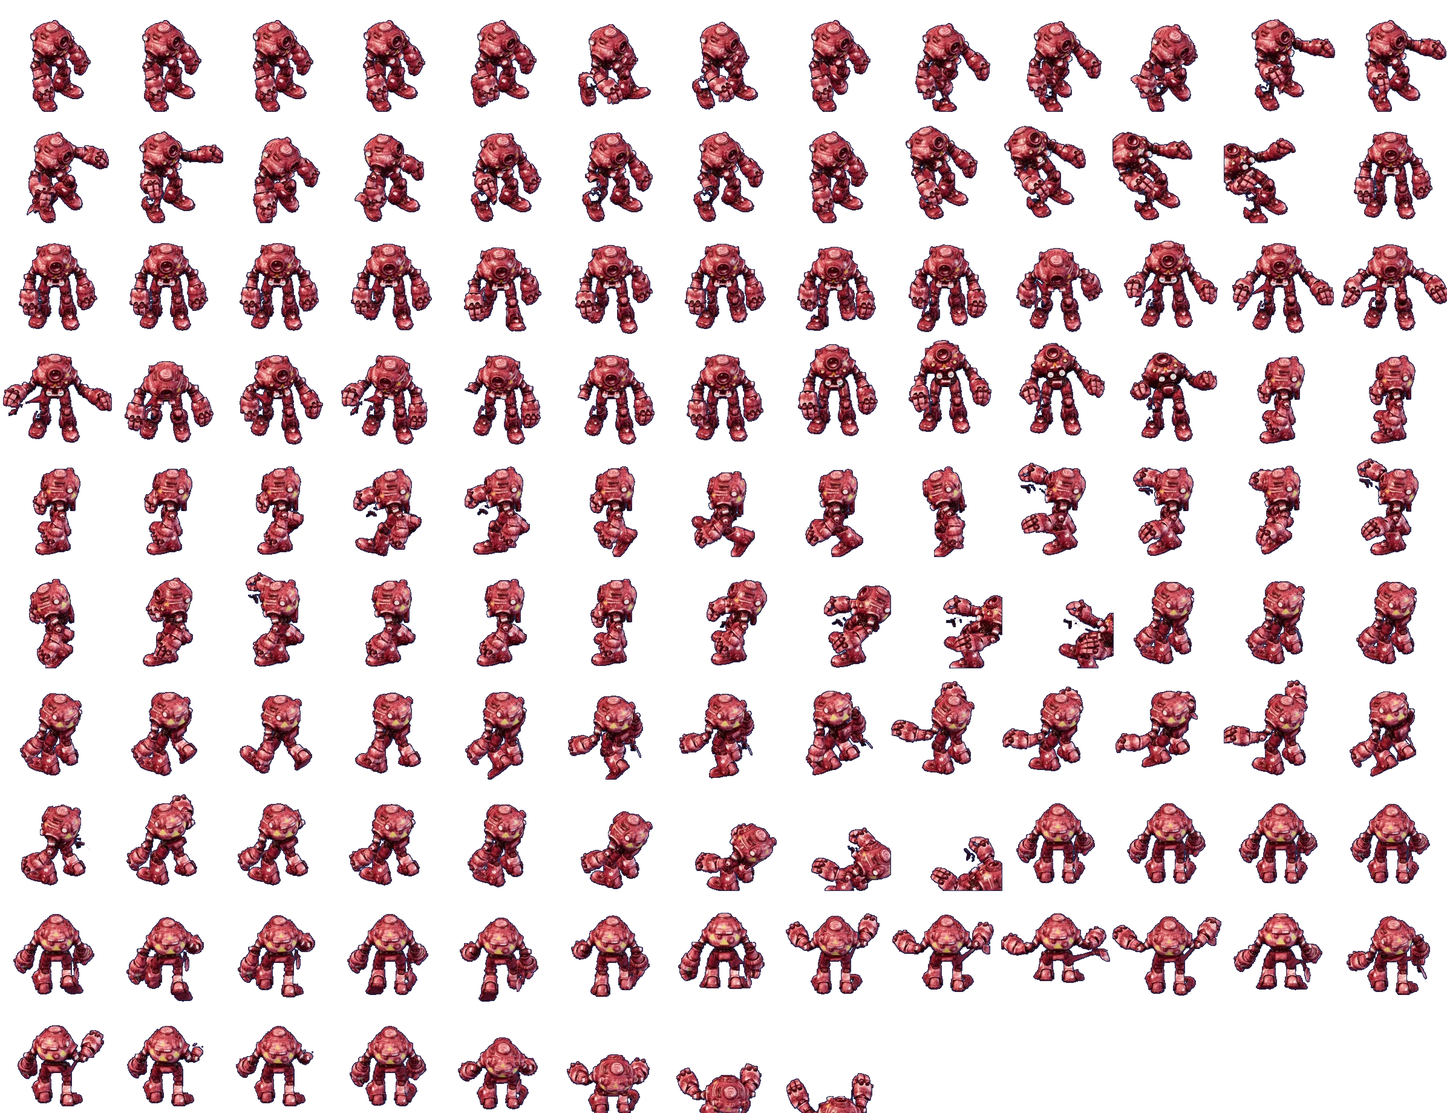
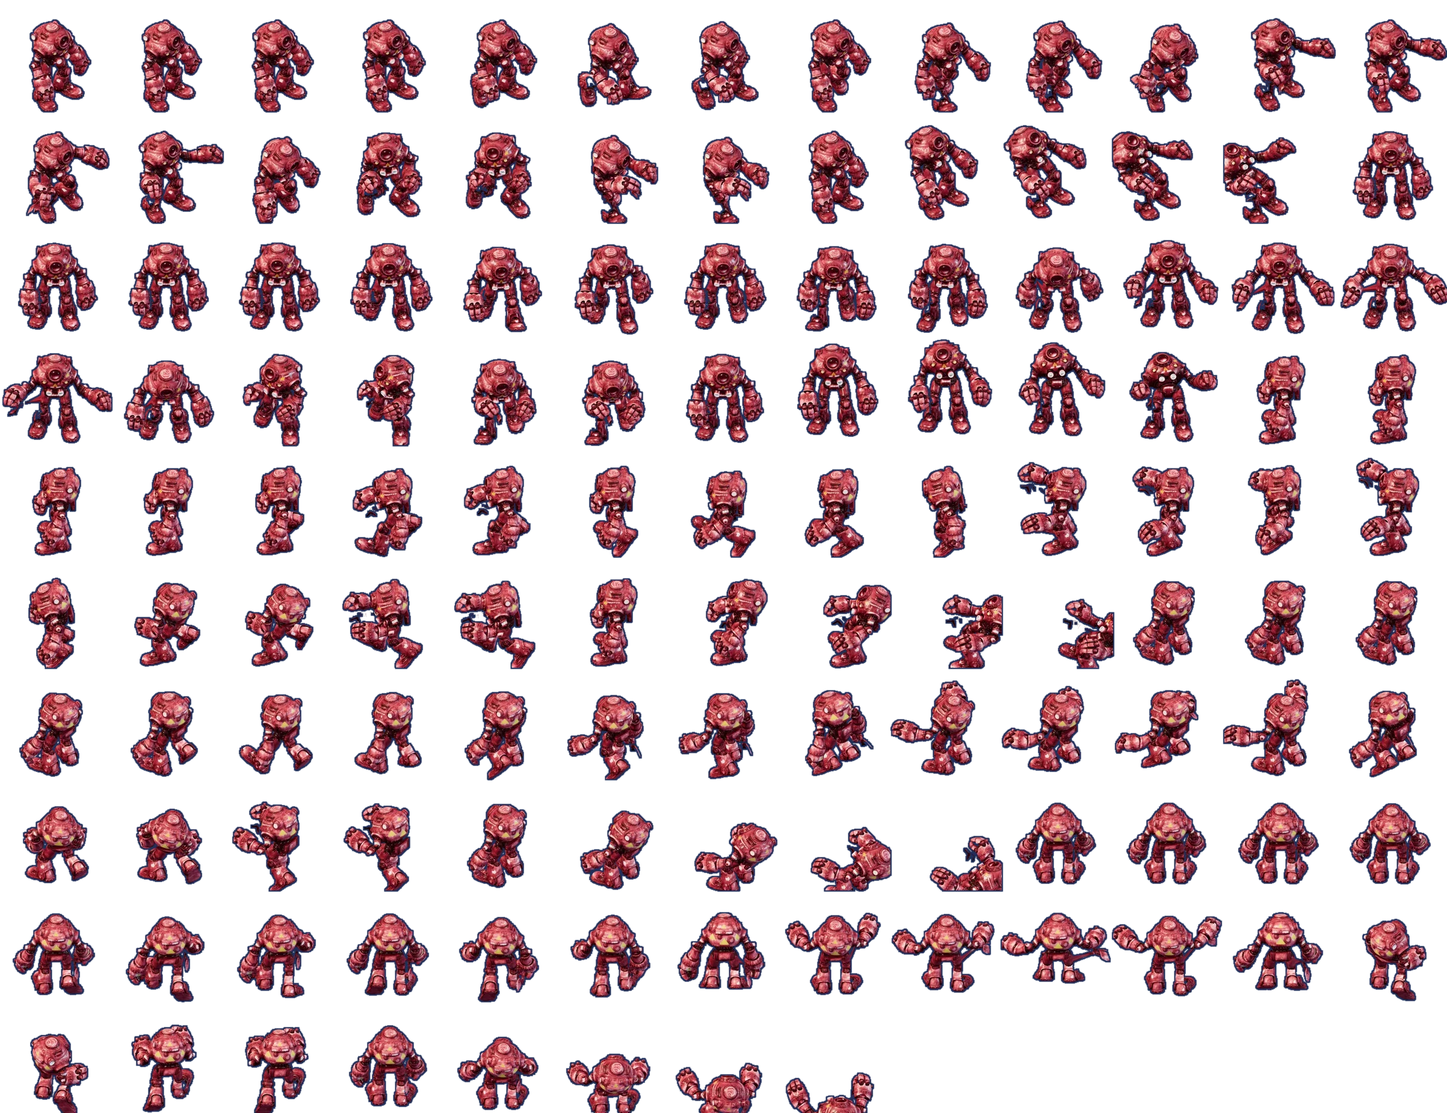
Guard energy-wave pose + big cartoon squash & stretch; ranger = owner's android with rifle (patch 194)
- Guard re-rendered from the owner's model: charge a ball at the hip, then lunge and
  push both palms; beam starts at the palms. Exaggerated squash/stretch on hop,
  landing, charge and push.
- Ranger (kind 0) uses the rigged android (green tint) with a modelled rifle,
  IK hands, idle/walk/aim+recoil/death in 8 directions; new card portrait.

Claude-Session: https://claude.ai/code/session_01ENEEn6VUZQ2HPHGFADhf8c

diff --git a/features/hud400/hud400.js b/features/hud400/hud400.js
@@ -52,17 +52,19 @@
 // (or a building's footprint), so gameplay, hit boxes and saves are untouched.
 var squash401={units:new WeakMap(),buildings:{},now:0};
 function spring401(e,amp,freq,damp){return amp*Math.exp(-e*damp)*Math.cos(e*freq);}
-// Flying guard robot: crouch before lift-off, stretch while climbing/diving, squash on touch-down, breathe while hovering.
+// 402: guard robot, exaggerated cartoon (Disney-style) squash & stretch: deep crouch before each hop, long stretch on
+// launch, stretch along the fall, a big pancake squash on landing that wobbles back, and a springy idle bounce.
 function squashGuard401(r,h,t){
- var now=performance.now()/1000,s=r.sq401||(r.sq401={h:h,at:now,vz:0,land:-9,crouch:-9});
- var dt=Math.max(.001,now-s.at),vz=(h-s.h)/dt;if(dt<.2)s.vz=s.vz*.6+vz*.4;
- if(s.h<=0&&h>0)s.crouch=now;if(s.h>0&&h<=0)s.land=now;s.h=h;s.at=now;
- var sy=1,e;
- if((e=now-s.crouch)<.45)sy+=e<.12?-.22*(e/.12):spring401(e-.12,.24,16,7);
- else if((e=now-s.land)<.6)sy+=spring401(e,-.3,20,7);
- else if(h>2)sy+=Math.max(-.12,Math.min(.2,Math.abs(s.vz)/260))+Math.sin(t*3.1)*.035;
- else sy+=Math.sin(t*2.2)*.02;
- ctx.scale(1/Math.sqrt(sy),sy);
+ var now=performance.now()/1000,s=r.sq401||(r.sq401={h:h,at:now,vz:0,land:-9,crouch:-9,impact:0});
+ var dt=Math.max(.001,now-s.at),vz=(h-s.h)/dt;if(dt<.2)s.vz=s.vz*.55+vz*.45;
+ if(s.h<=0&&h>0)s.crouch=now;if(s.h>0&&h<=0){s.land=now;s.impact=Math.min(1,Math.abs(s.vz)/200+.45);}s.h=h;s.at=now;
+ var ph=r.hop401!==undefined?r.hop401%1:-1,sy=1,e;
+ if(h<=0&&ph>=.12&&ph<.25&&!(r.charge402>0))sy-=.42*Math.sin((ph-.12)/.13*Math.PI/2);// anticipation: squat low
+ else if((e=now-s.crouch)<.5)sy+=e<.08?.55*(e/.08):spring401(e-.08,.55,15,6);// launch: shoot up long and thin
+ else if((e=now-s.land)<.75)sy+=spring401(e,-.5*s.impact,18,5.5);// landing: pancake, then wobble
+ else if(h>2)sy+=Math.max(-.18,Math.min(.38,s.vz/160))+Math.sin(t*5)*.03;// stretch rising and falling, round at the apex
+ else sy+=Math.abs(Math.sin(t*3.2))*.07-.02;// springy idle bounce
+ sy=Math.max(.42,sy);ctx.scale(1/Math.pow(sy,.6),sy);
 }
 (function(){
  // Troops: bouncy walk, hit squash, shot kick, squash-flat on defeat, floating air units.
@@ -114,7 +116,7 @@ function squashGuard401(r,h,t){
 // 401: base guard robot = the owner's 3D model, auto-rigged and pre-rendered (features/render3d/guard3d.html).
 // 5 rendered directions + 3 mirrored; idle / walk / jump (cartoon hop: crouch, launch, tuck, reach, squash) / attack (eye blast) / death.
 // Colour by the base's HQ level: 1-3 sky blue, 4-6 gold, 7+ ruby.
-var guardMeta401={"cw":184,"ch":184,"cols":13,"dirs":[0,1,3,4,5],"anims":{"idle":[0,4],"walk":[4,6],"jump":[10,6],"attack":[16,4],"death":[20,5]},"muzzle":[[23,-72.9],[2.9,-66.4],[-29.6,-82.6],[-23,-95.7],[-2.9,-102.2]],"ax":92,"ay":157.9,"h":123.9},guardImgs401={},guardRow401={0:[0,1],1:[1,1],2:[0,-1],3:[2,1],4:[3,1],5:[4,1],6:[3,-1],7:[2,-1]},GUARD_H401=64;
+var guardMeta401={"cw":184,"ch":184,"cols":13,"dirs":[0,1,3,4,5],"anims":{"idle":[0,4],"walk":[4,6],"jump":[10,6],"attack":[16,4],"death":[20,5]},"muzzle":[[1.6,-33.3],[-14.6,-36.6],[-16.8,-55.5],[-1.6,-60.1],[14.6,-56.9]],"ax":92,"ay":157.9,"push":[[45.5,-32.5],[6.7,-19.5],[-57.6,-50.2],[-45.5,-76],[-6.7,-89]],"h":123.9},guardImgs401={},guardRow401={0:[0,1],1:[1,1],2:[0,-1],3:[2,1],4:[3,1],5:[4,1],6:[3,-1],7:[2,-1]},GUARD_H401=64;
 function guardTier401(){var bs=screen==='raid'&&E.raid?E.raid.buildings:screen==='defense'&&E.defense?E.defense.buildings:E.d.buildings,hq=(bs||[]).find(function(b){return b.type==='hq';}),lv=hq&&hq.lv||1;return lv>=7?'t3':lv>=4?'t2':'t1';}
 function guardImg401(tier){var im=guardImgs401[tier];if(!im){im=guardImgs401[tier]=new Image();im.onload=function(){drawNeeded=true;};im.src='assets/guard401-'+tier+'.webp';}return im.complete&&im.naturalWidth?im:null;}
 function guardDir401(r){var dx=0,dy=0;if(r.lx401!==undefined){dx=r.x-r.lx401;dy=r.y-r.ly401;}r.lx401=r.x;r.ly401=r.y;
@@ -130,8 +132,8 @@ drawMiner251=function(r){
   if(ph>=0&&(h>0.5||(ph>=0.12&&ph<0.25&&Date.now()-(r.hopAt401||0)<300))){anim='jump';var q=(ph-0.25)/0.75;f=ph<0.12?5:ph<0.25?0:q<0.12?1:q<0.42?2:q<0.62?3:q<0.9?4:5;}
   else if(h>0.5){var sq=r.sq401;anim='jump';f=sq&&sq.vz<-5?4:sq&&sq.vz>5?2:3;}
   else if(ph>=0&&ph<0.12&&Date.now()-(r.hopAt401||0)<300){anim='jump';f=5;}
-  else if(r.charge402>0){anim='attack';f=Math.min(3,Math.floor((1-r.charge402/.8)*4));}
-  else if(r.fired402&&Date.now()-r.fired402<520){anim='attack';f=3;}
+  else if(r.charge402>0){anim='attack';var cp402=1-r.charge402/.8;f=cp402<.4?0:(cp402>.75&&Math.floor(now/60)%2?0:1);}
+  else if(r.fired402&&Date.now()-r.fired402<560){anim='attack';f=Date.now()-r.fired402<90?2:3;}
   else if(now-(r.moveAt401||0)<150){anim='walk';f=Math.floor((r.odo401||0)*7)%6;}
   else{anim='idle';f=Math.floor(t*4)%4;}}
  var cell=rm[0]*25+g.anims[anim][0]+f,k=GUARD_H401/g.h;
@@ -153,13 +155,13 @@ weaponMount=function(o){
 // 402: energy wave attack. The guard crouches and pulls back while a glowing ball gathers in front of its chest
 // (sparks spiral in), then lunges forward and pushes a wide beam out as far as the shock mortar fires.
 var WAVE402={t1:['#e9fbff','#6fe0ff','#2aa8ff'],t2:['#fffbe6','#ffe27a','#ffaa1f'],t3:['#fff0f2','#ff9aa8','#ff3b5c']};
-function hand402(o){// screen offset (unzoomed) of the energy ball: chest height, pushed toward the target.
- var a=o.aim!==undefined?o.aim:Math.PI/4,p0=point(o.x,o.y),p1=point(o.x+Math.cos(a),o.y+Math.sin(a)),dx=(p1.x-p0.x)/zoom,dy=(p1.y-p0.y)/zoom,l=Math.hypot(dx,dy)||1;
- return {x:dx/l*20,y:dy/l*9-GUARD_H401*.5-(o.height340||0),dx:dx/l,dy:dy/l};}
+function hand402(o,which){// screen offset (unzoomed) of the hands: 'muzzle' while charging (at the hip), 'push' at the end of the thrust.
+ var a=o.aim!==undefined?o.aim:Math.PI/4,d=((Math.round(a/(Math.PI/4))%8)+8)%8,rm=guardRow401[d],m=guardMeta401[which||'muzzle'][rm[0]],k=GUARD_H401/guardMeta401.h;
+ return {x:m[0]*k*rm[1],y:m[1]*k-(o.height340||0)};}
 function pose402(r){var now=Date.now(),e;
- if(r.charge402>0){e=1-r.charge402/.8;var c=Math.min(1,e*1.6);ctx.scale(1+.1*c,1-.12*c+Math.sin(e*60)*.012*e);return;}// crouch and tremble while charging
- if(r.fired402&&(e=(now-r.fired402)/1000)<.6){var k=Math.exp(-e*7);ctx.scale(1-.1*k,1+.16*k*Math.cos(e*22));}}// lunge into the push
-function orb402(r){var c=WAVE402[guardTier401()],e=1-r.charge402/.8,m=hand402(r),p=point(r.x,r.y),x=p.x+m.x*zoom,y=p.y+m.y*zoom,rad=(4+e*11+Math.sin(Date.now()/40)*1.2)*zoom;
+ if(r.charge402>0){e=1-r.charge402/.8;var c=Math.min(1,e*1.5),q=1-.24*c+Math.sin(now/22)*.035*c;ctx.scale(1/Math.pow(q,.7),q);return;}// coil down and tremble while charging
+ if(r.fired402&&(e=(now-r.fired402)/1000)<.8){var q2=1+spring401(e,.34,16,5);ctx.scale(1/Math.pow(q2,.7),q2);}}// spring up into the push, wobble back
+function orb402(r){var c=WAVE402[guardTier401()],e=1-r.charge402/.8,m=hand402(r,'muzzle'),p=point(r.x,r.y),x=p.x+m.x*zoom,y=p.y+m.y*zoom,rad=(4+e*11+Math.sin(Date.now()/40)*1.2)*zoom;
  ctx.save();
  var g=ctx.createRadialGradient(x,y,0,x,y,rad*2.6);g.addColorStop(0,c[0]);g.addColorStop(.3,c[1]);g.addColorStop(1,'rgba(0,0,0,0)');ctx.fillStyle=g;ctx.beginPath();ctx.arc(x,y,rad*2.6,0,Math.PI*2);ctx.fill();
  ctx.fillStyle=c[0];ctx.beginPath();ctx.arc(x,y,rad*.55,0,Math.PI*2);ctx.fill();
@@ -167,7 +169,7 @@ function orb402(r){var c=WAVE402[guardTier401()],e=1-r.charge402/.8,m=hand402(r)
  ctx.restore();drawNeeded=true;}
 var fx402=drawFX;drawFX=function(f){
  if(!f||f.effect!=='wave402')return fx402.apply(this,arguments);
- var c=WAVE402[guardTier401()],v=Math.max(0,Math.min(1,1-f.life/(f.maxLife||.62))),reach=f.reach402||.4,src={x:f.x,y:f.y,aim:Math.atan2(f.ty-f.y,f.tx-f.x),height340:0},m=hand402(src),a=point(f.x,f.y),b=point(f.tx,f.ty);
+ var c=WAVE402[guardTier401()],v=Math.max(0,Math.min(1,1-f.life/(f.maxLife||.62))),reach=f.reach402||.4,src={x:f.x,y:f.y,aim:Math.atan2(f.ty-f.y,f.tx-f.x),height340:0},m=hand402(src,'push'),a=point(f.x,f.y),b=point(f.tx,f.ty);
  a.x+=m.x*zoom;a.y+=m.y*zoom;b.y-=12*zoom;
  var head=Math.min(1,v/reach),hx=a.x+(b.x-a.x)*head,hy=a.y+(b.y-a.y)*head,fade=v<reach?1:Math.max(0,1-(v-reach)/(1-reach)),w=(14+Math.sin(v*70)*2)*zoom*(.35+.65*fade);
  ctx.save();ctx.lineCap='round';

diff --git a/features/render3d/ranger402/android3d.html b/features/render3d/ranger402/android3d.html
@@ -1,0 +1,83 @@
+<!doctype html><html><body style="margin:0;background:transparent">
+<canvas id="c" width="240" height="256"></canvas>
+<script type="importmap">{"imports":{"three":"/three/build/three.module.js","three/addons/":"/three/examples/jsm/"}}</script>
+<script type="module">
+// 402: ranger (basic soldier) = the owner's android (rigged ATLAS-09 skeleton, staging/titan/forge/models/android-nova.glb)
+// carrying a modelled assault rifle. Same camera/lights/facing as units3d.html: unit faces local +x, yaw = -gridAngle.
+// Arms are placed on the rifle with two-bone IK after the clip pose (Sentinel idle, Walk, aim+recoil, Collapse).
+import * as T from 'three';import {GLTFLoader} from 'three/addons/loaders/GLTFLoader.js';
+const canvas=document.getElementById('c');
+const R=new T.WebGLRenderer({canvas,antialias:true,alpha:true,preserveDrawingBuffer:true});
+R.setClearColor(0,0);R.outputColorSpace=T.SRGBColorSpace;R.toneMapping=T.ACESFilmicToneMapping;R.toneMappingExposure=1.15;
+const S=new T.Scene();
+const cam=new T.OrthographicCamera(-1.6,1.6,2.35,-1.05,0.1,100);
+S.add(new T.HemisphereLight(0xfff6e8,0x5571a3,2.2));
+const sun=new T.DirectionalLight(0xfff0d6,3.4);sun.position.set(-3,10,7);S.add(sun);
+const rim=new T.DirectionalLight(0x9fe3ff,1.8);rim.position.set(7,3,-5);S.add(rim);
+const params=new URLSearchParams(location.search);
+const gltf=await new GLTFLoader().loadAsync(params.get('model'));
+const model=gltf.scene;const box=new T.Box3().setFromObject(model),size=box.getSize(new T.Vector3());
+const H=1.85,sc=H/size.y;model.scale.setScalar(sc);
+const wrap=new T.Group();wrap.rotation.y=Math.PI/2;S.add(wrap);wrap.add(model);
+const bones={};model.traverse(o=>{if(o.isBone)bones[o.name.replace(/[^a-zA-Z.]/g,'').replace('handL','hand.L')]=o;});
+const bn=n=>model.getObjectByName(n)||model.getObjectByName(T.PropertyBinding.sanitizeNodeName(n));
+const B={};for(const n of ['root','pelvis','chest','head','upper_arm.L','forearm.L','hand.L','upper_arm.R','forearm.R','hand.R','shoulder.L','shoulder.R','thigh.L','thigh.R'])B[n]=bn(n);
+window.boneNames=()=>Object.fromEntries(Object.entries(B).map(([k,v])=>[k,!!v]));
+let mat=null;model.traverse(o=>{if(o.isMesh){o.frustumCulled=false;mat=o.material;}});
+const tint=new T.Color(params.get('tint')||'#a9e46c');if(mat){mat.color.copy(tint);mat.roughness=Math.max(.35,mat.roughness||.6);}
+window.setTint=c=>{mat.color.set(c);};
+const mixer=new T.AnimationMixer(model);const clips={};for(const c of gltf.animations)clips[c.name]=c;
+// --- rifle (toy-like, chunky, bright) ---
+const gun=new T.Group();const GM=new T.MeshStandardMaterial({color:0x3a4656,metalness:.6,roughness:.35}),GA=new T.MeshStandardMaterial({color:0xffb23e,metalness:.2,roughness:.45}),GD=new T.MeshStandardMaterial({color:0x232b36,metalness:.5,roughness:.5}),GL=new T.MeshBasicMaterial({color:0x7ff0ff});
+const bx=(w,h,d,m,x,y,z)=>{const e=new T.Mesh(new T.BoxGeometry(w,h,d),m);e.position.set(x,y,z);gun.add(e);return e;};
+const cy=(r,l,m,x,y,z)=>{const e=new T.Mesh(new T.CylinderGeometry(r,r,l,16),m);e.rotation.x=Math.PI/2;e.position.set(x,y,z);gun.add(e);return e;};
+// gun local: +z forward (barrel), +y up. Origin at the rear grip.
+bx(.075,.10,.30,GM,0,.02,.10);          // receiver
+bx(.065,.07,.20,GD,0,.0,-.12);          // stock
+bx(.07,.11,.05,GA,0,.0,-.24);           // butt pad (accent)
+bx(.05,.12,.05,GD,0,-.08,.03);          // pistol grip
+bx(.05,.13,.06,GA,0,-.09,.15);          // magazine (accent)
+bx(.07,.06,.20,GD,0,.0,.32);            // handguard
+cy(.022,.22,GM,0,.025,.51);             // barrel
+cy(.034,.06,GD,0,.025,.63);             // muzzle brake
+bx(.035,.04,.12,GD,0,.09,.12);          // scope body
+const lens=new T.Mesh(new T.CylinderGeometry(.022,.022,.01,12),GL);lens.rotation.x=Math.PI/2;lens.position.set(0,.09,.185);gun.add(lens);
+bx(.02,.02,.10,GL,.04,.02,.32);         // glowing side strip
+const muzzle=new T.Object3D();muzzle.position.set(0,.025,.68);gun.add(muzzle);
+const flash=new T.Mesh(new T.SphereGeometry(.09,14,10),new T.MeshBasicMaterial({color:0xffe08a,transparent:true,opacity:.95}));flash.scale.set(1,1,1.8);flash.position.set(0,.025,.76);gun.add(flash);
+const gripR=new T.Object3D();gripR.position.set(0,-.08,.03);gun.add(gripR);const gripL=new T.Object3D();gripL.position.set(0,-.03,.33);gun.add(gripL);
+const GS=0.82;gun.scale.setScalar(GS);
+model.add(gun);// placed in model space every frame
+// --- two-bone IK (CCD, a few passes) ---
+const tmp=new T.Vector3(),tq=new T.Quaternion(),ta=new T.Vector3(),tb=new T.Vector3();
+function reach(chain,end,target,iters=12){for(let it=0;it<iters;it++){for(let i=chain.length-1;i>=0;i--){const j=chain[i];j.updateMatrixWorld(true);
+ const jp=j.getWorldPosition(new T.Vector3()),ep=end.getWorldPosition(new T.Vector3());ta.copy(ep).sub(jp).normalize();tb.copy(target).sub(jp).normalize();
+ const ang=Math.acos(Math.min(1,Math.max(-1,ta.dot(tb))));if(ang<1e-4)continue;const axis=new T.Vector3().crossVectors(ta,tb).normalize();
+ const wq=j.getWorldQuaternion(new T.Quaternion());const inv=wq.clone().invert();axis.applyQuaternion(inv);j.quaternion.multiply(tq.setFromAxisAngle(axis,Math.min(ang,.5)));j.updateMatrixWorld(true);}}}
+// hand ends: a point a little beyond the hand bone
+const endR=new T.Object3D(),endL=new T.Object3D();B['hand.R'].add(endR);B['hand.L'].add(endL);
+function placeGun(kind,rec){// gun pose relative to chest, in model space
+ model.updateMatrixWorld(true);const c=B.chest.getWorldPosition(new T.Vector3());const inv=model.matrixWorld.clone().invert();const cm=c.clone().applyMatrix4(inv);
+ const s=1/sc;// model units per world unit
+ if(kind==='aim'){gun.position.set(cm.x-0.11*s,cm.y+0.10*s,cm.z+0.02*s-rec*0.07*s);gun.rotation.set(-0.02-rec*0.18,0,0);}
+ else if(kind==='carry'){gun.position.set(cm.x-0.08*s,cm.y-0.22*s,cm.z+0.12*s);gun.rotation.set(-0.45,0.25,0.15);}
+ gun.scale.setScalar(GS*s);
+ model.updateMatrixWorld(true);
+ const gR=gripR.getWorldPosition(new T.Vector3()),gL=gripL.getWorldPosition(new T.Vector3());
+ reach([B['upper_arm.R'],B['forearm.R']],B['hand.R'],gR);reach([B['upper_arm.L'],B['forearm.L']],B['hand.L'],gL);}
+function clip(name,t){mixer.stopAllAction();const c=clips[name];if(!c)return;const a=mixer.clipAction(c);a.reset().play();a.paused=false;mixer.setTime(Math.min(c.duration*0.999,t*c.duration));}
+window.pose=(dirA,anim,f)=>{
+ wrap.rotation.y=Math.PI/2-dirA;wrap.rotation.z=0;wrap.position.set(0,0,0);flash.visible=false;gun.visible=true;
+ if(anim==='idle'){clip('Sentinel',f/4);placeGun('carry',0);}
+ else if(anim==='walk'){clip('Walk',f/8);placeGun('carry',0);}
+ else if(anim==='attack'){clip('Sentinel',0.1);const rec=[0,1,.45,.12][f];placeGun('aim',rec);}// shot flash is drawn by the game
+ else if(anim==='death'){clip('Collapse',Math.min(1,f/4*0.95));B.root.position.x*=0.3;B.root.position.z*=0.3;placeGun('carry',0);gun.visible=f<3;}
+ wrap.updateMatrixWorld(true);model.updateMatrixWorld(true);
+ R.render(S,cam);const v=muzzle.getWorldPosition(new T.Vector3()),pv=v.clone().project(cam),o=new T.Vector3(0,0,0).project(cam);
+ return {img:canvas.toDataURL('image/png'),mx:(pv.x+1)/2*canvas.width,my:(1-pv.y)/2*canvas.height,ox:(o.x+1)/2*canvas.width,oy:(1-o.y)/2*canvas.height};
+};
+window.setZoom=z=>{cam.zoom=z;cam.position.set(10,11.17,10);cam.lookAt(0,0.9-(z-1)*1.7,0);cam.updateProjectionMatrix();};
+window.setZoom(+(params.get('zoom')||1.45));
+window.clipNames=()=>Object.keys(clips);
+window.ready=true;
+</script></body></html>

diff --git a/features/render3d/guard401/guard3d.html b/features/render3d/guard401/guard3d.html
@@ -62,6 +62,7 @@ const FL=new T.MeshBasicMaterial({color:0x7ff0ff,transparent:true,opacity:0.85})
 const flames=[];for(const s of ['L','R']){const g=new T.Group();const c1=new T.Mesh(new T.ConeGeometry(0.05,0.26,16),FL);c1.rotation.x=Math.PI;c1.position.y=-0.13;const c2=new T.Mesh(new T.ConeGeometry(0.025,0.16,12),FL2);c2.rotation.x=Math.PI;c2.position.y=-0.08;g.add(c1,c2);g.userData.side=s;holder.add(g);flames.push(g);}
 const eye=new T.Mesh(new T.SphereGeometry(0.075,20,14),new T.MeshBasicMaterial({color:0xfff4a8,transparent:true,opacity:0.95}));eye.position.set(0,0.778-0.58,0.17);B.body.add(eye);
 const beam=new T.Mesh(new T.SphereGeometry(0.045,20,14),new T.MeshBasicMaterial({color:0xffffff}));beam.position.set(0,0.778-0.58,0.2);B.body.add(beam);const halo=new T.Mesh(new T.SphereGeometry(0.075,20,14),new T.MeshBasicMaterial({color:0x7ff3ff,transparent:true,opacity:0.5}));beam.add(halo);
+const hands=['L','R'].map(k=>{const o=new T.Object3D();o.position.set((k==='L'?1:-1)*0.01,-0.22,0.04);B['el'+k].add(o);return o;});
 const rest={};order.forEach(k=>rest[k]={p:B[k].position.clone(),r:B[k].rotation.clone()});
 function reset(){fistU.value=0;order.forEach(k=>{B[k].position.copy(rest[k].p);B[k].rotation.copy(rest[k].r);B[k].scale.setScalar(1);});holder.position.set(0,0,0);holder.rotation.set(0,0,0);flames.forEach(f=>f.visible=false);eye.visible=false;beam.visible=false;}
 // model axes (before wrap): +z forward, +x robot's left side, +y up. Rotation about x pitches forward (+ = toes/head forward).
@@ -85,16 +86,19 @@ window.pose=(dirA,anim,f)=>{
   B.body.rotation.x=J.b;B.pelvis.rotation.x=J.b*0.4;legs(...J.l);arms(...J.a);holder.position.y=J.py;window.__ground=(f===0||f===5);}
  else if(anim==='fly'){const p=f/4*TAU,s=Math.sin(p);holder.position.y=0.03*s;B.body.rotation.x=0.22;B.pelvis.rotation.x=0.18;
   legs(-0.25+0.08*s,0.55-0.1*s,-0.15-0.08*s,0.45+0.1*s);arms(-0.35,0.35,-0.35,0.35,0.35+0.05*s);flames.forEach((g,i)=>{g.visible=true;g.scale.set(1,0.85+0.3*Math.abs(Math.sin(p+i)),1);});}
- else if(anim==='attack'){// 401: rocket-fist throw with the right arm; forearm+fist leave the body for frames 2-3.
-  const P=[{a:-0.95,e:0.7,ty:0.38,bx:-0.12},{a:1.35,e:0.05,ty:-0.32,bx:0.22},{a:1.15,e:0.05,ty:-0.22,bx:0.16},{a:0.45,e:0.1,ty:-0.05,bx:0.06}][f];
-  B.body.rotation.y=P.ty;B.body.rotation.x=P.bx;legs(0.3,0.35,-0.25,0.2);arms(0.15,0.3,P.a,P.e,0.12);B.shR.rotation.z=-0.2;
-  if(f>=2)fistU.value=1;}
+ else if(anim==='attack'){// 402: energy wave. 0-1 gather a ball at the right hip (twist, crouch), 2-3 lunge and push both palms forward.
+  const P=[{ty:-0.55,bx:-0.10,bz:0.06,a:-0.25,e:1.35,sp:-0.55,l:[0.55,0.75,-0.35,0.55],py:-0.03},
+   {ty:-0.75,bx:-0.18,bz:0.10,a:-0.40,e:1.55,sp:-0.65,l:[0.65,0.95,-0.45,0.70],py:-0.05},
+   {ty:0.10,bx:0.26,bz:0,a:1.45,e:0.10,sp:-0.30,l:[-0.55,0.25,0.75,0.35],py:-0.02},
+   {ty:0.05,bx:0.32,bz:0,a:1.55,e:0.02,sp:-0.34,l:[-0.65,0.30,0.85,0.40],py:-0.03}][f];
+  B.body.rotation.y=P.ty;B.body.rotation.x=P.bx;B.body.rotation.z=P.bz;B.pelvis.rotation.y=P.ty*0.35;B.pelvis.position.y=rest.pelvis.p.y+P.py;
+  legs(...P.l);arms(P.a,P.e,P.a,P.e,P.sp);}
  else if(anim==='death'){const k=f/4;holder.rotation.x=-k*1.05;holder.position.z=-k*0.05;holder.position.y=Math.sin(k*Math.PI)*0.06-k*0.05;legs(-k*0.4,k*0.8,-k*0.2,k*0.6);arms(k*0.5,k*0.3,k*0.35,k*0.4,0.25*k);B.body.rotation.z=0.25*k;}
  holder.updateMatrixWorld(true);wrap.updateMatrixWorld(true);
  if(window.__ground){const a=new T.Vector3(),b=new T.Vector3();B.anL.getWorldPosition(a);B.anR.getWorldPosition(b);holder.worldToLocal(a);holder.worldToLocal(b);holder.position.y+=0.10-Math.min(a.y,b.y);holder.updateMatrixWorld(true);}
  flames.forEach(g=>{if(!g.visible)return;const v=new T.Vector3();B['an'+g.userData.side].getWorldPosition(v);holder.worldToLocal(v);g.position.copy(v);g.position.y-=0.07;g.rotation.set(0,0,0);});holder.updateMatrixWorld(true);
  R.render(S,cam);
- const o=new T.Vector3(0,0,0).project(cam);const ev=new T.Vector3();eye.getWorldPosition(ev);const e=ev.project(cam);
+ const o=new T.Vector3(0,0,0).project(cam);const ev=new T.Vector3();if(anim==='attack'){const a=new T.Vector3(),b=new T.Vector3();hands[0].getWorldPosition(a);hands[1].getWorldPosition(b);ev.copy(a).add(b).multiplyScalar(0.5);}else eye.getWorldPosition(ev);const e=ev.project(cam);
  return {img:canvas.toDataURL('image/png'),ox:(o.x+1)/2*canvas.width,oy:(1-o.y)/2*canvas.height,mx:(e.x+1)/2*canvas.width,my:(1-e.y)/2*canvas.height};
 };
 window.debug=()=>{const C=[0xff0000,0x00ff00,0x0000ff,0xffff00,0xff00ff,0x00ffff,0xffffff,0x000000,0xff8800,0x8800ff,0x0088ff,0x88ff00,0x884400,0x448800];const col=new Float32Array(n*3);for(let i=0;i<n;i++){const c=new T.Color(C[si[i*4]%14]);col[i*3]=c.r;col[i*3+1]=c.g;col[i*3+2]=c.b;}geo.setAttribute('color',new T.BufferAttribute(col,3));mesh.material=new T.MeshBasicMaterial({vertexColors:true});return order;};

diff --git a/features/render3d/units3d392.js b/features/render3d/units3d392.js
@@ -1,6 +1,6 @@
 // 392: pre-rendered 3D troops (ranger 0, battle mech 2, medic drone 3, sniper 4, shield mech 6, plasma trooper 8, heavy assault mech 10).
 // idle / walk (by distance travelled) / attack (by recoil) / death. Atlases by render-units.cjs.
-var unit3dKinds392={0:{file:'ranger',height:38,perTile:10},2:{file:'mech',height:46,perTile:8},3:{file:'drone',height:44,perTile:6},4:{file:'sniper',height:38,perTile:10},6:{file:'shield',height:48,perTile:7},8:{file:'plasma',height:40,perTile:9},10:{file:'heavy',height:56,perTile:6}};
+var unit3dKinds392={0:{file:'ranger',height:42,perTile:10},2:{file:'mech',height:46,perTile:8},3:{file:'drone',height:44,perTile:6},4:{file:'sniper',height:38,perTile:10},6:{file:'shield',height:48,perTile:7},8:{file:'plasma',height:40,perTile:9},10:{file:'heavy',height:56,perTile:6}};
 Object.keys(unit3dKinds392).forEach(function(k){var s=unit3dKinds392[k];s.meta=unit3dMeta392[s.file];if(!s.meta){delete unit3dKinds392[k];return;}s.img=new Image();s.img.onload=function(){drawNeeded=true;};s.img.src='assets/units3d392-'+s.file+'.webp';});
 function unit3dDir392(a){return ((Math.round(a/(Math.PI/4))%8)+8)%8;}
 function unit3d392(t,u,enemy,z,flip){

diff --git a/features/render3d/guard401/README.md b/features/render3d/guard401/README.md
@@ -6,3 +6,7 @@ faces bridging separate limbs removed), poses idle/walk/jump/attack/death (jump 
 `render-guard.cjs` writes 5 unique directions (2, 6, 7 are drawn mirrored) x 25 frames at 184 px per tier, 13 columns.
 Tier textures tint the original albedo (detail kept): t1 sky blue (HQ 1-3), t2 gold (HQ 4-6), t3 ruby (HQ 7+).
 A 2 px navy outline is added after rendering. Runtime: `features/hud400/hud400.js` (drawMiner251 / weaponMount overrides).
+
+402: attack is now an energy wave: frames 0-1 gather a ball at the right hip (body twisted, crouched), 2-3 lunge and push both
+palms forward. `meta.muzzle` = hands while charging, `meta.push` = palms at the end of the push (beam origin).
+The navy outline is applied after `render-guard.cjs` (alpha > 90, MaxFilter 5, blur 0.6, colour 30,48,92).

diff --git a/features/render3d/ranger402/README.md b/features/render3d/ranger402/README.md
@@ -1,0 +1,7 @@
+# 402 ranger = owner's android with an assault rifle
+
+Uses the already rigged `staging/titan/forge/models/android-nova.glb` (same android as the NOVA titan), tinted bright green
+so soldiers read differently from the white/gold/red titan. `android3d.html` builds a chunky toy rifle, plays the ATLAS-09 clips
+(Sentinel idle, Walk, Collapse death) and puts both hands on the rifle with CCD IK; attack = shoulder-high aim with recoil.
+`render-ranger.cjs` writes `assets/units3d392-ranger.webp` (same 21 x 8 layout as render-units.cjs) and the `ranger` entry of
+`features/render3d/units3d.json`; `portrait-ranger.cjs` replaces the kind-0 card portrait in `assets/portraits393.webp`.
